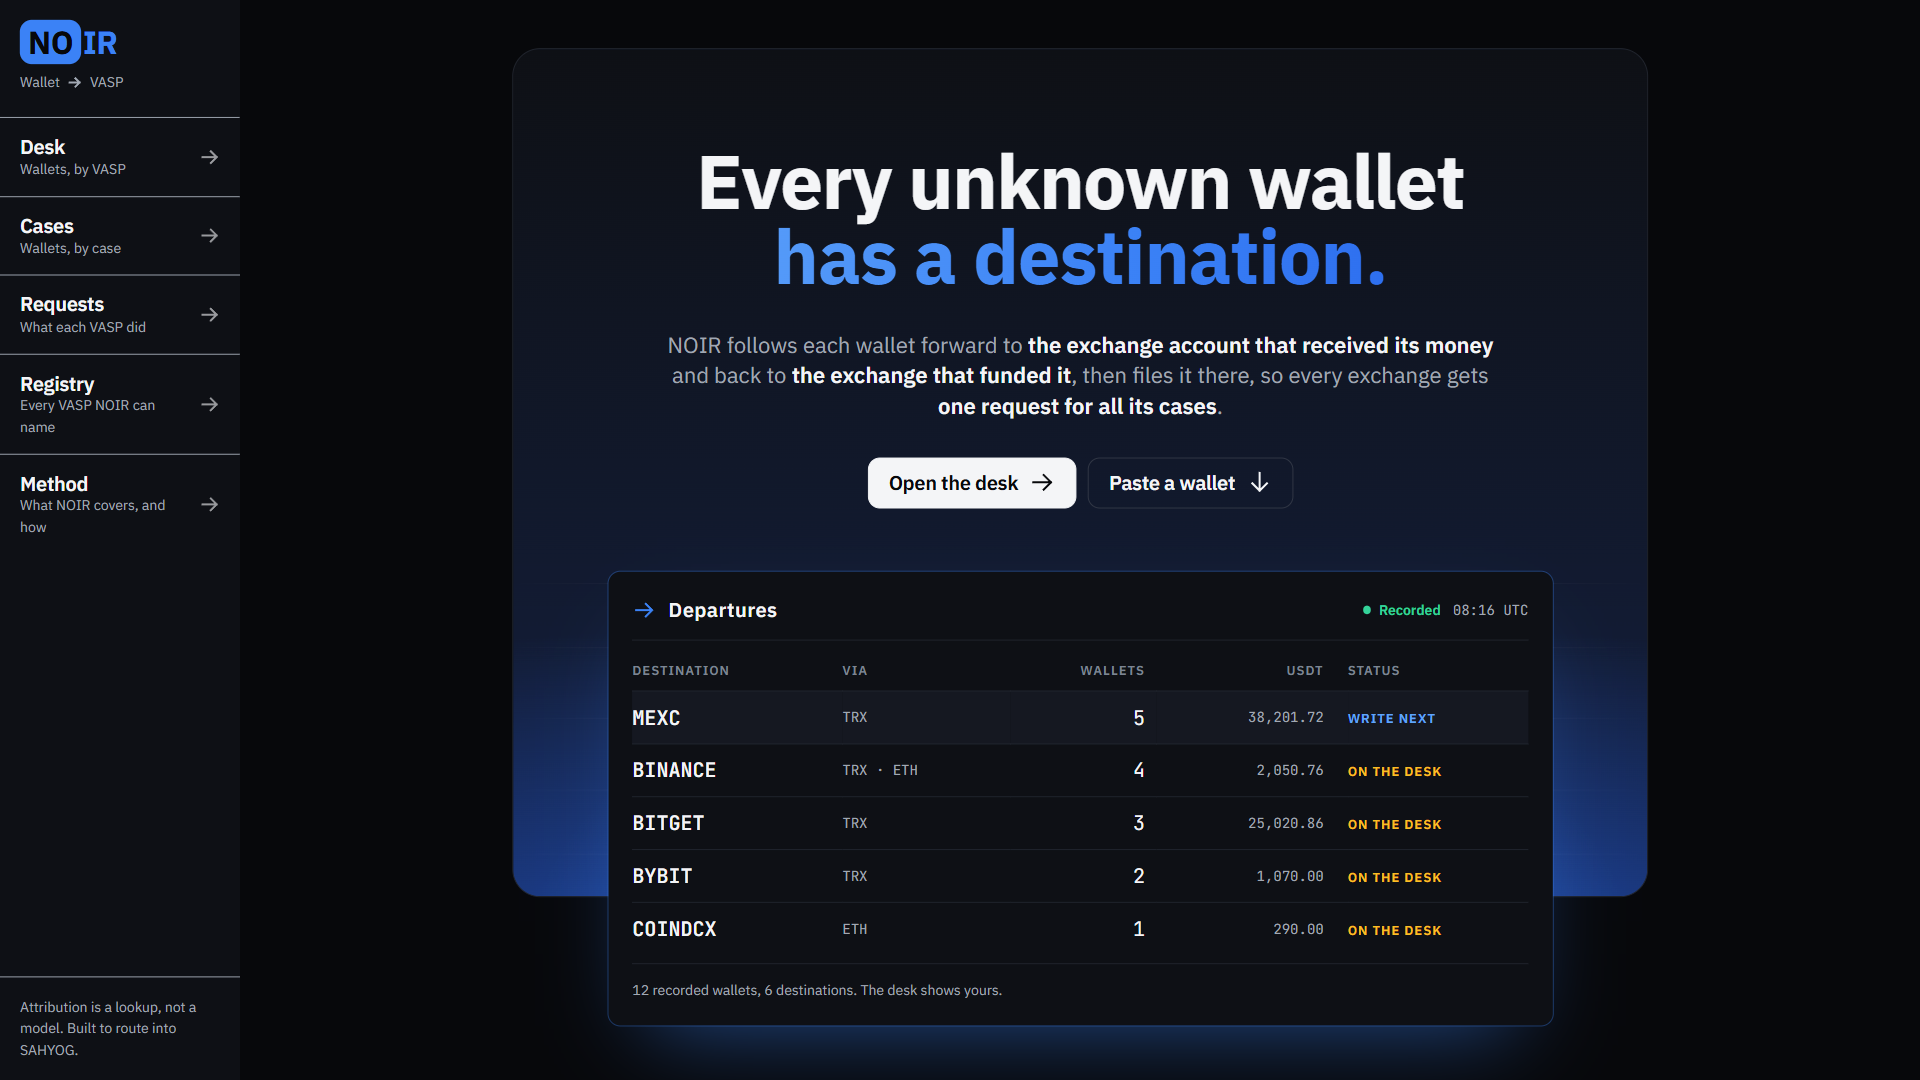
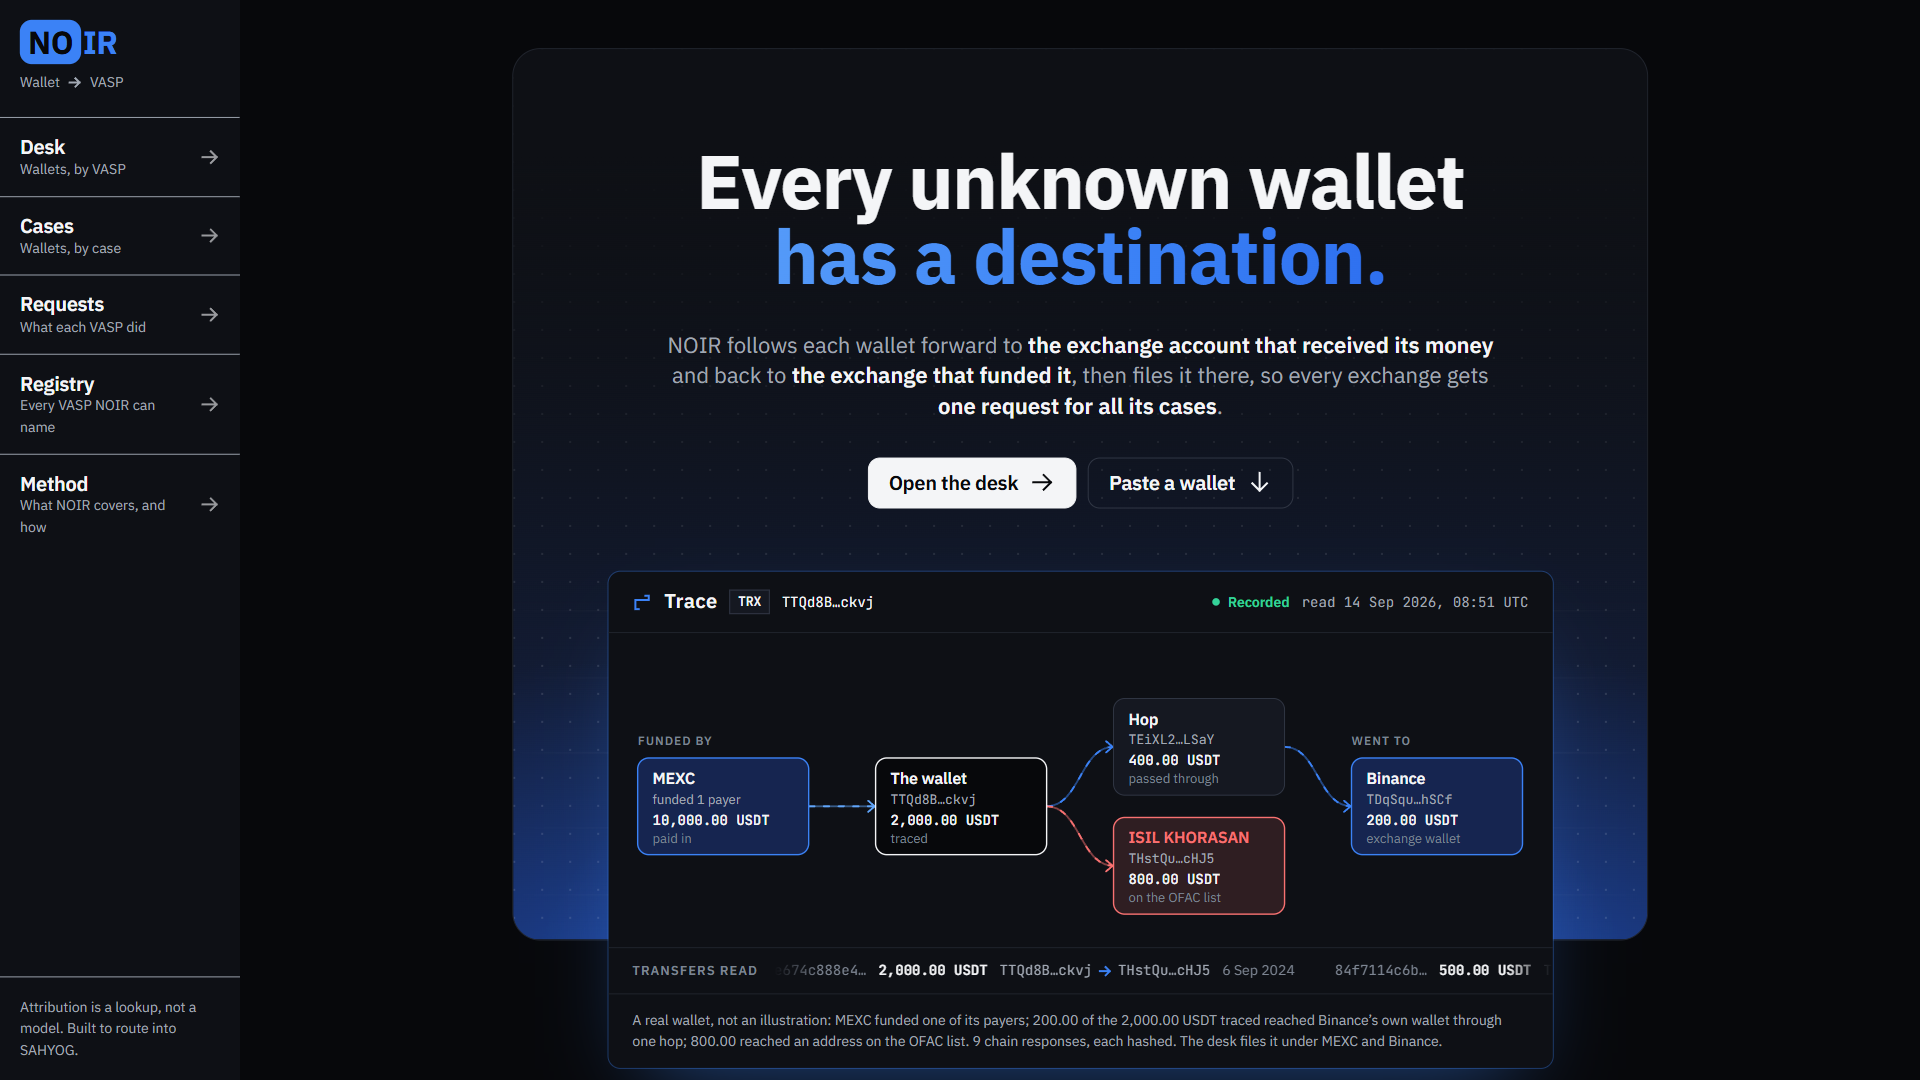
Screens and demo frames after the trace pass, the demo storyboard, and how the final pass is split
docs/screens: landing, desk and wallet captured again from the production build. docs/demo/frames:
ten 1920x1080 key frames, renumbered for the new landing order. docs/demo/storyboard.md: the shot
list, the lines, the two generated clips with their commands and cost, and how to record the
walkthrough again.

diff --git a/docs/demo/storyboard.md b/docs/demo/storyboard.md
@@ -1,0 +1,72 @@
+# Demo video — storyboard
+
+A one-minute film of NOIR. The product shots are a screen recording of the production build in
+recorded mode (`DEMO_MODE=true`), so every name, address and figure on screen is what NOIR shows:
+nothing in them is drawn for the film. Generated clips are used only to open and close it, and each
+starts from a real frame in [`frames/`](frames/).
+
+## What exists
+
+| File | What it is |
+| --- | --- |
+| `frames/01-hall.png` … `frames/10-wallet-trace.png` | Ten key frames, 1920×1080, captured from the production build on 30 Sep 2026 with motion at rest |
+| `noir-walkthrough.webm` (not in the repository: 21 MB) | The recorded walkthrough, 56 s, 1920×1080, motion on. Re-record it with the steps under "Recording it again" |
+
+## Shots
+
+| # | Seconds | Source | On screen | Line to say |
+| --- | --- | --- | --- | --- |
+| 1 | 0–5 | generated from `frames/01-hall.png` | The hall: the claim, the trace panel below it | "An investigator has a wallet and no idea which exchange to write to." |
+| 2 | 5–13 | walkthrough 0:03–0:11 | The trace draws: MEXC funded it, the wallet, a hop, Binance's own wallet; a branch to an address on the OFAC list | "NOIR follows it both ways: back to the exchange that funded it, forward to the exchange account that received its money." |
+| 3 | 13–21 | walkthrough 0:11–0:19 | The counted figures, then the desk as a departures board | "Every figure here is counted from the repository. Every traced wallet is filed under the exchange it leads to." |
+| 4 | 21–25 | walkthrough 0:20–0:24 | Many cases meeting at one exchange | "Many cases, one exchange, one request." |
+| 5 | 25–33 | walkthrough 0:24–0:32 | The desk: the sign naming the next exchange to write to, the board | "The desk says who to write to next, and what is overdue." |
+| 6 | 33–44 | walkthrough 0:32–0:43 | One exchange's page, then its request as an A4 letter | "One consolidated request per exchange. The legal basis is left blank for the officer." |
+| 7 | 44–52 | walkthrough 0:43–0:52 | One wallet's page: its own trace, drawn from its own record | "Each attribution states how much evidence was seen, and carries the hash of every chain response it read." |
+| 8 | 52–57 | generated from `frames/02-trace.png`, or walkthrough 0:54–0:56 | The hall again | "NOIR. Every unknown wallet has a destination." |
+
+Lines that must not be said: that attribution is "accurate" to a percentage (confidence is how much
+evidence was seen), that SAHYOG integration is live (it is designed), that any statute is printed on
+a request, or any amount in rupees.
+
+## Generated clips
+
+Model: Seedance 2.5, image-to-video from a real frame, 16:9. A video model redraws what it is
+given, so small type can come out wrong: keep the clips short, keep the camera moving slowly, and
+cut to the recording before anyone reads a figure. Discard a clip in which a name, an address or a
+number has changed.
+
+Shot 1, five seconds:
+
+```bash
+higgsfield generate create seedance_2_5 --mode omni_reference --start-image docs/demo/frames/01-hall.png --duration 5 --resolution 1080p --aspect_ratio 16:9 --prompt "Slow, steady push-in on a dark software console on a near-black ground. Keep every word, letter and number exactly as in the image; add no text and no new interface elements. Thin electric-blue route lines glow softly and a faint light travels along them left to right. No camera shake, no people, no logos." --wait
+```
+
+Shot 8, five seconds:
+
+```bash
+higgsfield generate create seedance_2_5 --mode omni_reference --start-image docs/demo/frames/02-trace.png --duration 5 --resolution 1080p --aspect_ratio 16:9 --prompt "Slow, steady pull-back from a dark software console showing a flow diagram of connected boxes. Keep every word, letter and number exactly as in the image; add no text and no new interface elements. A soft electric-blue light travels along the connecting lines in the direction of the arrows. No camera shake, no people, no logos." --wait
+```
+
+What they cost, as quoted by the CLI on 30 Sep 2026: 12 credits a second at 1080p (five seconds is
+60 credits, so the two clips are 120), or 56 credits for eight seconds at 720p. Ask again before
+spending:
+
+```bash
+higgsfield generate cost seedance_2_5 --mode omni_reference --start-image docs/demo/frames/01-hall.png --duration 5 --resolution 1080p --aspect_ratio 16:9
+```
+
+The account the CLI is signed in to held 0 credits on 30 Sep 2026, so nothing has been generated.
+Without the generated clips the film is complete as the walkthrough alone: shots 1 and 8 become the
+first three and the last two seconds of the recording.
+
+## Recording it again
+
+1. `npm run build`, then `DEMO_MODE=true npx next start -p 3032` with a desk that holds the recorded
+   cases (on an empty desk, **Load the recorded cases**).
+2. Record a 1920×1080 browser window, motion on, in this order: `/` (hold three seconds, scroll to
+   the trace and hold five, then the counted figures, the board, the many-cases diagram), `/desk`
+   (the sign, then the board), `/vasp/MEXC` (then its wallets), `/vasp/MEXC/request`,
+   `/wallet/TTQd8Bo1nhKEVgkKJVP3SRYZ1nDNStckvj?chain=tron` (scroll to the trace and hold five),
+   `/cases`, `/`.
+3. The trace draws once when its page opens; open the page, then start the scroll.

diff --git a/docs/review/feedback.md b/docs/review/feedback.md
@@ -325,3 +325,20 @@ local session built the screens for it too. **CLOUD: do not build these again; m
 
 Still open for whoever takes it: a phone capture of every screen in `docs/screens/`, and the
 `?deep=1` health answer shown somewhere an officer would look (the method or audit screen).
+
+## 30 Sep, final pass: how the last work is split
+
+Main is at the trace-graph pass (the landing hero is one recorded wallet traced both ways; the same
+graph heads every wallet page; the departures board has its own landing section).
+
+- Cloud session, on `cloud/ui`: C1 audit and fix the two trace surfaces (`/` and a wallet page) at
+  360, 390, 768, 1024, 1280, 1440 and 1920, including reduced motion, keyboard access and wallets
+  with no funders read, a stopped trail, and an Ethereum or Polygon wallet. C2 the same finish on
+  `/desk`, `/vasp/[name]`, `/requests`, `/cases`, `/registry`, `/method`, `/audit` (consistency only,
+  no new features or claims). C3 route tests for what changes, one line per fix in
+  `feedback-done.md`. Do not touch `lib/`, `app/api/`, `data/`, `scripts/`, `docs/screens/`,
+  `docs/demo/`, `DESIGN.md`, `.impeccable/`, `README.md`, `CONTEXT.md`; a fix that needs `lib/` goes
+  here as one line instead.
+- Local session: the screens and demo frames, the storyboard, merging `cloud/ui`, the checks, `main`
+  and the live site.
+

diff --git a/docs/screens/README.md b/docs/screens/README.md
@@ -1,7 +1,9 @@
 # Screens
 
 Captured from the production build (`next build && next start`, `DEMO_MODE=true`) on 30 Sep 2026, at 1440px wide and,
-for the `-phone` files, at 390px, with reduced motion so the split-flap names and the hall's lane pulses are at rest.
+for the `-phone` files, at 390px, with reduced motion so the trace stands whole and the split-flap names and the hall's lane
+pulses are at rest. `landing`, `desk` and `wallet` were captured again after the trace graph was built; the wallet is
+`TTQd8Bo1nhKEVgkKJVP3SRYZ1nDNStckvj` (TRON), which has both directions and a branch to an OFAC-listed address.
 The desk holds recorded wallets with a staged register: a request to MEXC answered with a freeze, one to CoinDCX sent,
 one to Bitget drafted. `desk-empty` is a desk with nothing filed, where recorded mode offers the recorded cases.
 
